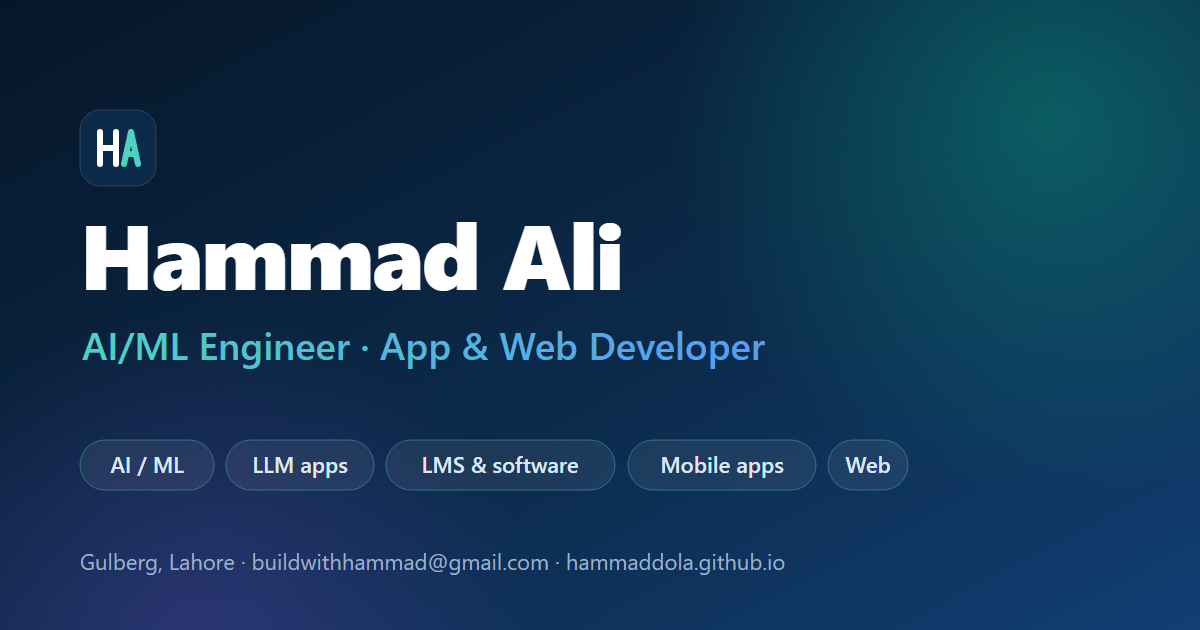
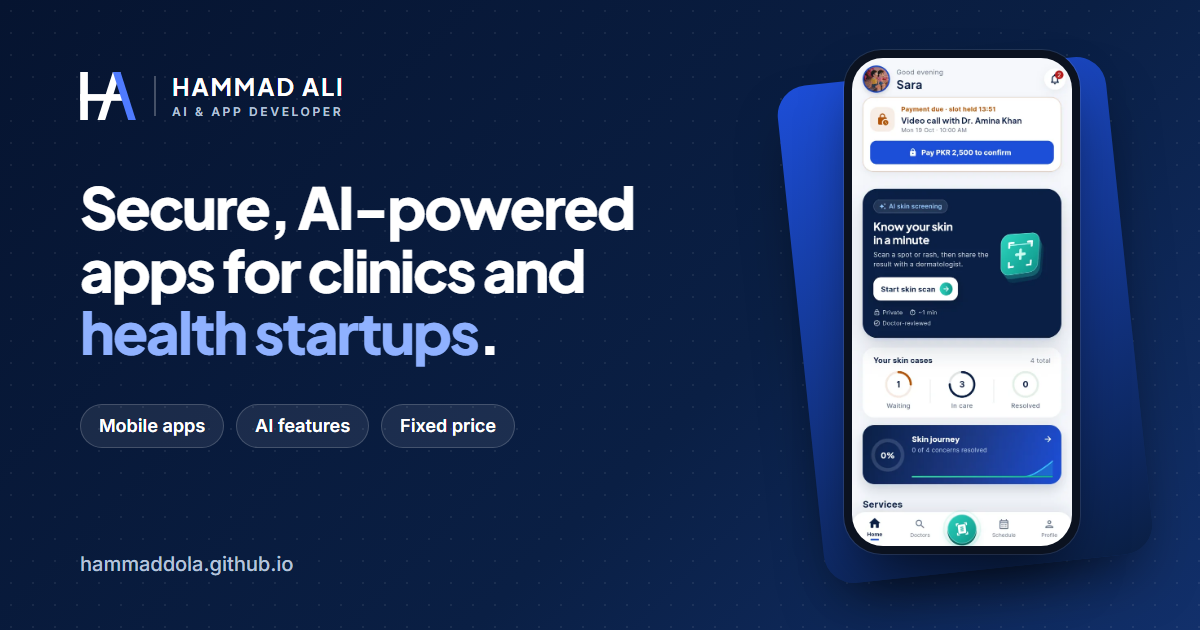
New share image, honest delivery wording, less repetition, mid-page CTAs
- og.png redrawn in the current navy/blue style with the healthcare headline
- "Most projects in 3-7 days; larger apps in weekly milestones" everywhere
- Each fact stated once; hero chips in client language; fewer jargon tags
- LeafScan concept replaced by ScanTriage (medical-image AI)
- WhatsApp CTA after Services and after Process
- Smaller hero phone on mobile

diff --git a/index.html b/index.html
@@ -13,7 +13,10 @@
   <meta property="og:url" content="https://hammaddola.github.io/">
   <meta property="og:title" content="Hammad Ali — AI & App Developer for Healthcare and Startups">
   <meta property="og:description" content="Secure, AI-powered mobile and web apps for clinics and health startups, from first idea to app-store launch.">
-  <meta property="og:image" content="https://hammaddola.github.io/assets/og.png">
+  <meta property="og:image" content="https://hammaddola.github.io/assets/og.png?v=2">
+  <meta property="og:image:width" content="1200">
+  <meta property="og:image:height" content="630">
+  <meta property="og:image:alt" content="Hammad Ali, AI and app developer: secure, AI-powered apps for clinics and health startups">
   <meta name="twitter:card" content="summary_large_image">
 
   <link rel="preconnect" href="https://fonts.googleapis.com">
@@ -58,7 +61,7 @@
       <ul class="nav-links" id="nav-links">
         <li><a href="#work">Work</a></li>
         <li><a href="#services">Services</a></li>
-        <li><a href="#projects">Ideas</a></li>
+        <li><a href="#projects">Concepts</a></li>
         <li><a href="#process">Process</a></li>
         <li><a href="#about">About</a></li>
         <li><a href="#contact">Contact</a></li>
@@ -98,7 +101,6 @@
         <ul class="hero-meta reveal" aria-label="Quick facts">
           <li><svg viewBox="0 0 24 24" aria-hidden="true"><circle cx="12" cy="12" r="3.5"/><path d="M12 3v3M12 18v3M3 12h3M18 12h3"/></svg>AI · ML · LLMs</li>
           <li><svg viewBox="0 0 24 24" aria-hidden="true"><rect x="5" y="2" width="14" height="20" rx="3"/><path d="M11 18h2"/></svg>Apps · Web · LMS</li>
-          <li><svg viewBox="0 0 24 24" aria-hidden="true"><path d="M12 3l8 4v5c0 5-3.5 8-8 9-4.5-1-8-4-8-9V7z"/><path d="M9 12l2 2 4-4"/></svg>Security by design</li>
         </ul>
       </div>
 
@@ -109,9 +111,9 @@
           <div class="phone-notch"></div>
           <img src="assets/work/10_patient_home.webp" alt="" width="270" height="600" fetchpriority="high">
         </div>
-        <span class="float-chip c1"><b>Flutter</b> 3 apps · 1 codebase</span>
-        <span class="float-chip c2"><b>Gemini</b> vision triage</span>
-        <span class="float-chip c3"><b>Supabase</b> row-level security</span>
+        <span class="float-chip c1"><b>Private</b> by default</span>
+        <span class="float-chip c2"><b>AI</b> skin check in a minute</span>
+        <span class="float-chip c3"><b>Reviewed</b> by a real doctor</span>
       </div>
     </section>
 
@@ -121,7 +123,7 @@
         <div class="stat reveal"><span class="num">3</span><span class="label">apps in one product: patient, doctor &amp; admin</span></div>
         <div class="stat reveal"><span class="num">1</span><span class="label">codebase for Android, iOS &amp; web</span></div>
         <div class="stat reveal"><span class="num">2</span><span class="label">languages: English &amp; Urdu</span></div>
-        <div class="stat reveal"><span class="num">200+</span><span class="label">automated tests guarding every release</span></div>
+        <div class="stat reveal"><span class="num">3</span><span class="label">ways to pay: JazzCash, Easypaisa &amp; card</span></div>
       </div>
     </section>
 
@@ -146,11 +148,11 @@
           <img src="assets/work/dermacare-mark.svg" alt="DermaCare logo" width="64" height="64" class="case-logo">
           <p class="case-lead">
             A telemedicine app where patients scan a skin concern with AI, then get a
-            <strong>licence-verified dermatologist</strong> on it by chat, video or an in-person visit.
-            Patients pay securely by JazzCash, Easypaisa or card when they book. Patient, doctor and admin apps from one Flutter codebase.
+            <strong>licence-checked dermatologist</strong> on it by chat, video or an in-person visit.
+            Patients pay securely by JazzCash, Easypaisa or card when they book.
           </p>
           <ul class="tags" aria-label="Technologies">
-            <li>Flutter</li><li>Bloc</li><li>Supabase</li><li>PostgreSQL RLS</li><li>Gemini</li><li>TensorFlow</li><li>Deno</li><li>Stream Video</li><li>JazzCash</li><li>Easypaisa</li>
+            <li>Flutter</li><li>Supabase</li><li>Gemini AI</li><li>Video calls</li><li>JazzCash</li><li>Easypaisa</li>
           </ul>
         </div>
 
@@ -167,13 +169,13 @@
           </div>
           <div class="case-card reveal spotlight">
             <span class="case-num">03</span>
-            <h3>Security by design</h3>
+            <h3>Patient data stays private</h3>
             <p>Each patient can only ever see their own records and photos. Doctors are licence-checked by an admin before they can take cases. Prices are set on the server and every payment is double-checked with the gateway before the doctor's share is booked, so fees can't be tampered with.</p>
           </div>
           <div class="case-card reveal spotlight">
             <span class="case-num">04</span>
             <h3>Crafted, tested, shipped</h3>
-            <p>Smooth, accessible screens in English and Urdu, built for screen readers too. Over 200 automated tests, including a 41-step run through the live system, check every release before it reaches users.</p>
+            <p>Smooth, accessible screens in English and Urdu, built for screen readers too. A 41-step automated run through the live system checks every release before it reaches users.</p>
           </div>
           <div class="case-card case-result reveal spotlight">
             <span class="case-num">05</span>
@@ -241,7 +243,7 @@
     <section class="section" id="services">
       <div class="section-head reveal">
         <p class="eyebrow">Services</p>
-        <h2 class="split-lines">From first idea to app-store launch</h2>
+        <h2 class="split-lines">What I can build for you</h2>
       </div>
       <div class="services">
         <article class="service reveal spotlight">
@@ -281,6 +283,12 @@
           <ul class="mini-tags"><li>Supabase</li><li>PostgreSQL</li><li>RLS</li><li>UI/UX</li></ul>
         </article>
       </div>
+      <div class="section-cta reveal">
+        <p>Have an app or AI feature in mind? Tell me about it and get a fixed price.</p>
+        <a href="https://wa.me/923157679143?text=Hi%20Hammad%2C%20I%20saw%20your%20portfolio%20and%20would%20like%20to%20discuss%20a%20project." class="btn btn-primary" target="_blank" rel="noopener">
+          <svg viewBox="0 0 24 24" aria-hidden="true"><path d="M20.5 3.5A11 11 0 0 0 3.3 17.6L2 22l4.5-1.2A11 11 0 0 0 20.5 3.5zM12 20a8 8 0 0 1-4.1-1.1l-.3-.2-2.7.7.7-2.6-.2-.3A8 8 0 1 1 12 20zm4.4-6c-.2-.1-1.4-.7-1.7-.8s-.4-.1-.5.1-.6.8-.7.9-.3.2-.5.1a6.5 6.5 0 0 1-3.2-2.8c-.2-.4.2-.4.7-1.3a.4.4 0 0 0 0-.4l-.8-1.8c-.2-.5-.4-.4-.5-.4h-.5a.9.9 0 0 0-.7.3 2.8 2.8 0 0 0-.9 2.1 5 5 0 0 0 1 2.6 11.3 11.3 0 0 0 4.4 3.9c1.6.7 2.3.7 3.1.6a2.7 2.7 0 0 0 1.8-1.2 2.2 2.2 0 0 0 .2-1.2c-.1-.1-.3-.2-.5-.3z"/></svg>
+          Message me on WhatsApp</a>
+      </div>
     </section>
 
     <!-- CONCEPT PROJECTS -->
@@ -288,7 +296,7 @@
       <div class="section-head reveal">
         <p class="eyebrow">Concept projects</p>
         <h2 class="split-lines">What I could build for you next</h2>
-        <p class="section-sub">Concept designs showing how I'd approach three common requests: a clinic AI assistant, a learning platform and a custom-trained AI model. Need something like this? Message me and I'll scope it for you.</p>
+        <p class="section-sub">Concept designs showing how I'd approach three common requests: a clinic AI assistant, a learning platform and a medical-image AI model. Need something like this? Message me and I'll scope it for you.</p>
       </div>
       <div class="projects">
         <article class="project reveal spotlight">
@@ -325,20 +333,23 @@
           </div>
         </article>
         <article class="project reveal spotlight">
-          <div class="project-cover" style="--accent:#17B26A">
-            <svg viewBox="0 0 300 180" role="img" aria-label="LeafScan concept illustration"><rect x="24" y="30" width="122" height="120" rx="12" fill="#fff"/>
-        <path d="M85 56c-22 8-30 34-18 58 24-6 36-30 18-58z" fill="#17B26A"/><path d="M85 56c-6 22-10 40-18 58" stroke="#0E7A45" stroke-width="2.5" fill="none"/>
-        <circle cx="96" cy="88" r="5" fill="#B45309"/><circle cx="78" cy="98" r="4" fill="#B45309"/>
+          <div class="project-cover" style="--accent:#F59E0B">
+            <svg viewBox="0 0 300 180" role="img" aria-label="ScanTriage concept illustration"><rect x="24" y="30" width="122" height="120" rx="12" fill="#0B1220"/>
+        <path d="M85 50v86" stroke="#475569" stroke-width="3"/>
+        <path d="M80 62c-18 4-30 24-30 50 0 12 6 18 16 18s14-10 14-24z" fill="#CBD5E1" fill-opacity=".85"/><path d="M90 62c18 4 30 24 30 50 0 12-6 18-16 18s-14-10-14-24z" fill="#CBD5E1" fill-opacity=".85"/>
+        <path d="M58 82h20M56 96h22M56 110h22M92 82h20M92 96h22M92 110h22" stroke="#0B1220" stroke-opacity=".35" stroke-width="2"/>
+        <circle cx="106" cy="100" r="9" fill="none" stroke="#F59E0B" stroke-width="2.5" stroke-dasharray="4 3"/>
         <rect x="158" y="30" width="118" height="120" rx="12" fill="#fff"/>
-        <path d="M172 130 L194 104 L214 112 L236 74 L262 60" stroke="#1D4ED8" stroke-width="3" fill="none" stroke-linecap="round" stroke-linejoin="round"/>
-        <path d="M172 136h94M172 136V46" stroke="#CBD5E1" stroke-width="1.5"/>
-        <rect x="200" y="44" width="62" height="16" rx="8" fill="#ECFDF3"/><rect x="208" y="50" width="46" height="4" rx="2" fill="#17B26A"/></svg>
+        <rect x="172" y="46" width="62" height="16" rx="8" fill="#FFF4E5"/><rect x="180" y="52" width="46" height="4" rx="2" fill="#B45309"/>
+        <rect x="172" y="76" width="90" height="8" rx="4" fill="#E2E8F0"/><rect x="172" y="76" width="70" height="8" rx="4" fill="#1D4ED8"/>
+        <rect x="172" y="94" width="90" height="8" rx="4" fill="#E2E8F0"/><rect x="172" y="94" width="22" height="8" rx="4" fill="#93B4FF"/>
+        <rect x="172" y="118" width="90" height="18" rx="9" fill="#0A1F44"/><rect x="190" y="125" width="54" height="4" rx="2" fill="#fff" fill-opacity=".85"/></svg>
             <span class="badge">Concept</span>
           </div>
           <div class="project-body">
-            <p class="project-kind">AI model training · Computer vision</p>
-            <h3>LeafScan</h3>
-            <p>A plant-disease classifier concept: data cleaning and augmentation, EfficientNet transfer learning, a confusion-matrix evaluation, then export to a TFLite model for offline use on phones.</p>
+            <p class="project-kind">Medical AI · Computer vision</p>
+            <h3>ScanTriage</h3>
+            <p>A chest X-ray screening concept that sorts scans into "normal" and "needs review" so radiologists see urgent cases first: data preparation, transfer learning, evaluation on held-out scans, then an on-device model.</p>
             <ul class="mini-tags"><li>TensorFlow</li><li>EfficientNet</li><li>Keras</li><li>TFLite</li></ul>
           </div>
         </article>
@@ -350,16 +361,22 @@
       <div class="section-head reveal">
         <p class="eyebrow">How we'll work together</p>
         <h2 class="split-lines">How a project runs, step by step</h2>
-        <p class="section-sub">Most projects are delivered and deployed in 3–7 days, at a fixed price agreed before work starts.</p>
+        <p class="section-sub">Most projects are delivered and deployed in 3–7 days. Larger apps ship in weekly milestones. Either way, the price is fixed and agreed before work starts.</p>
       </div>
       <ol class="process">
         <li class="process-line" aria-hidden="true"></li>
-        <li class="reveal"><span class="step">01</span><h3>Discover</h3><p>We agree on goals and scope, and I send a fixed price and delivery date in writing.</p></li>
+        <li class="reveal"><span class="step">01</span><h3>Discover</h3><p>We agree on goals and scope, and I send a fixed price and delivery plan in writing.</p></li>
         <li class="reveal"><span class="step">02</span><h3>Design</h3><p>Flows and screens you can click through before any code.</p></li>
         <li class="reveal"><span class="step">03</span><h3>Build</h3><p>Progress you can try as I go, not one big reveal at the end.</p></li>
         <li class="reveal"><span class="step">04</span><h3>Test</h3><p>Automated tests plus real-device checks before release.</p></li>
-        <li class="reveal"><span class="step">05</span><h3>Launch &amp; support</h3><p>Deployed live or store-ready, with documentation and help after launch.</p></li>
+        <li class="reveal"><span class="step">05</span><h3>Launch &amp; support</h3><p>Deployed live or submitted to the stores, with documentation and help after launch.</p></li>
       </ol>
+      <div class="section-cta reveal">
+        <p>Ready for step one? Send a few lines about your idea.</p>
+        <a href="https://wa.me/923157679143?text=Hi%20Hammad%2C%20I%20saw%20your%20portfolio%20and%20would%20like%20to%20discuss%20a%20project." class="btn btn-primary" target="_blank" rel="noopener">
+          <svg viewBox="0 0 24 24" aria-hidden="true"><path d="M20.5 3.5A11 11 0 0 0 3.3 17.6L2 22l4.5-1.2A11 11 0 0 0 20.5 3.5zM12 20a8 8 0 0 1-4.1-1.1l-.3-.2-2.7.7.7-2.6-.2-.3A8 8 0 1 1 12 20zm4.4-6c-.2-.1-1.4-.7-1.7-.8s-.4-.1-.5.1-.6.8-.7.9-.3.2-.5.1a6.5 6.5 0 0 1-3.2-2.8c-.2-.4.2-.4.7-1.3a.4.4 0 0 0 0-.4l-.8-1.8c-.2-.5-.4-.4-.5-.4h-.5a.9.9 0 0 0-.7.3 2.8 2.8 0 0 0-.9 2.1 5 5 0 0 0 1 2.6 11.3 11.3 0 0 0 4.4 3.9c1.6.7 2.3.7 3.1.6a2.7 2.7 0 0 0 1.8-1.2 2.2 2.2 0 0 0 .2-1.2c-.1-.1-.3-.2-.5-.3z"/></svg>
+          Message me on WhatsApp</a>
+      </div>
     </section>
 
     <!-- ABOUT -->
@@ -385,7 +402,7 @@
         <h2 class="split-lines">Tell me about your project</h2>
         <p class="lead">Send a few lines about your idea. I'll reply with a clear plan and a fixed price for your project.</p>
         <ul class="terms">
-          <li><svg viewBox="0 0 24 24" aria-hidden="true"><circle cx="12" cy="12" r="9"/><path d="M12 7v5l3 2"/></svg>Delivered &amp; deployed in 3–7 days</li>
+          <li><svg viewBox="0 0 24 24" aria-hidden="true"><circle cx="12" cy="12" r="9"/><path d="M12 7v5l3 2"/></svg>Most projects delivered in 3–7 days</li>
           <li><svg viewBox="0 0 24 24" aria-hidden="true"><path d="M3 12V4h8l10 10-8 8z"/><circle cx="7.5" cy="8.5" r="1.5"/></svg>Fixed price, quoted per project</li>
         </ul>
         <div class="contact-grid">

diff --git a/styles.css b/styles.css
@@ -228,6 +228,9 @@ main { width: 100%; }
 .mini-tags { display: flex; flex-wrap: wrap; gap: 6px; list-style: none; padding: 0; margin: 20px 0 0; }
 .mini-tags li { font: 500 12.5px/1 var(--body); padding: 6px 10px; border-radius: 6px; color: var(--navy-700); background: var(--blue-50); }
 
+.section-cta { display: flex; align-items: center; justify-content: space-between; flex-wrap: wrap; gap: 16px 24px; margin-top: 44px; padding: 24px 28px; border-radius: var(--radius); background: var(--blue-50); border: 1px solid #D6E0FA; }
+.section-cta p { font: 700 19px/1.35 var(--display); color: var(--ink); max-width: 560px; }
+
 /* ── Process ────────────────────────────────────────────────────────────── */
 .process { list-style: none; padding: 0; display: grid; grid-template-columns: repeat(5, 1fr); gap: 18px; position: relative; }
 .process::before { content: ''; position: absolute; top: 26px; left: 26px; right: 26px; height: 2px; background: linear-gradient(90deg, var(--navy-800), var(--blue), #C7D4EE); }
@@ -295,9 +298,13 @@ a.contact-item:hover { transform: translateY(-4px); box-shadow: var(--shadow-lg)
   .menu-open .nav-links { display: flex; }
   .nav-links a { display: block; padding: 12px 14px; font-size: 16px; }
   .case-grid, .services, .contact-grid { grid-template-columns: 1fr; }
-  .hero-visual { min-height: 500px; }
-  .hero-visual::before, .hero-visual::after { width: 300px; height: 420px; }
-  .phone { width: 228px; }
+  .hero-visual { min-height: 400px; }
+  .hero-visual::before, .hero-visual::after { width: 250px; height: 340px; }
+  .phone { width: 180px; padding: 7px; border-radius: 30px; }
+  .phone img { border-radius: 24px; }
+  .phone-notch { top: 12px; width: 56px; height: 15px; }
+  .float-chip { font-size: 12px; padding: 8px 11px; }
+  .section-cta { padding: 20px; }
   .c1 { left: 0; top: 4%; } .c2 { right: 0; } .c3 { left: 0; bottom: 3%; }
   .case-intro { grid-template-columns: 1fr; }
   .case-logo { grid-row: auto; }
